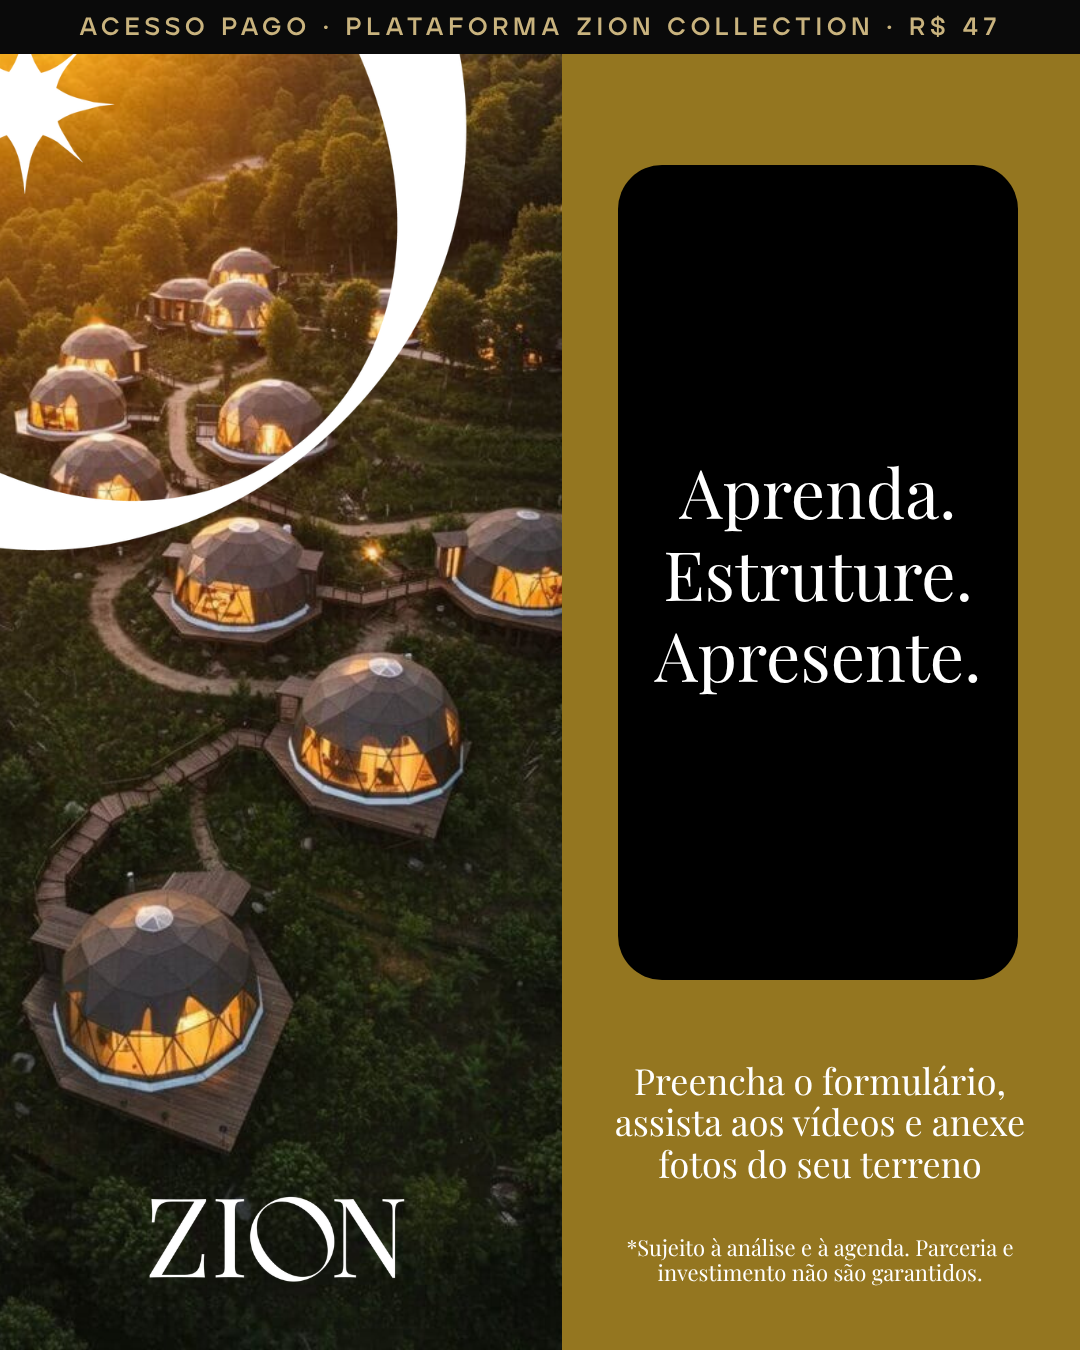
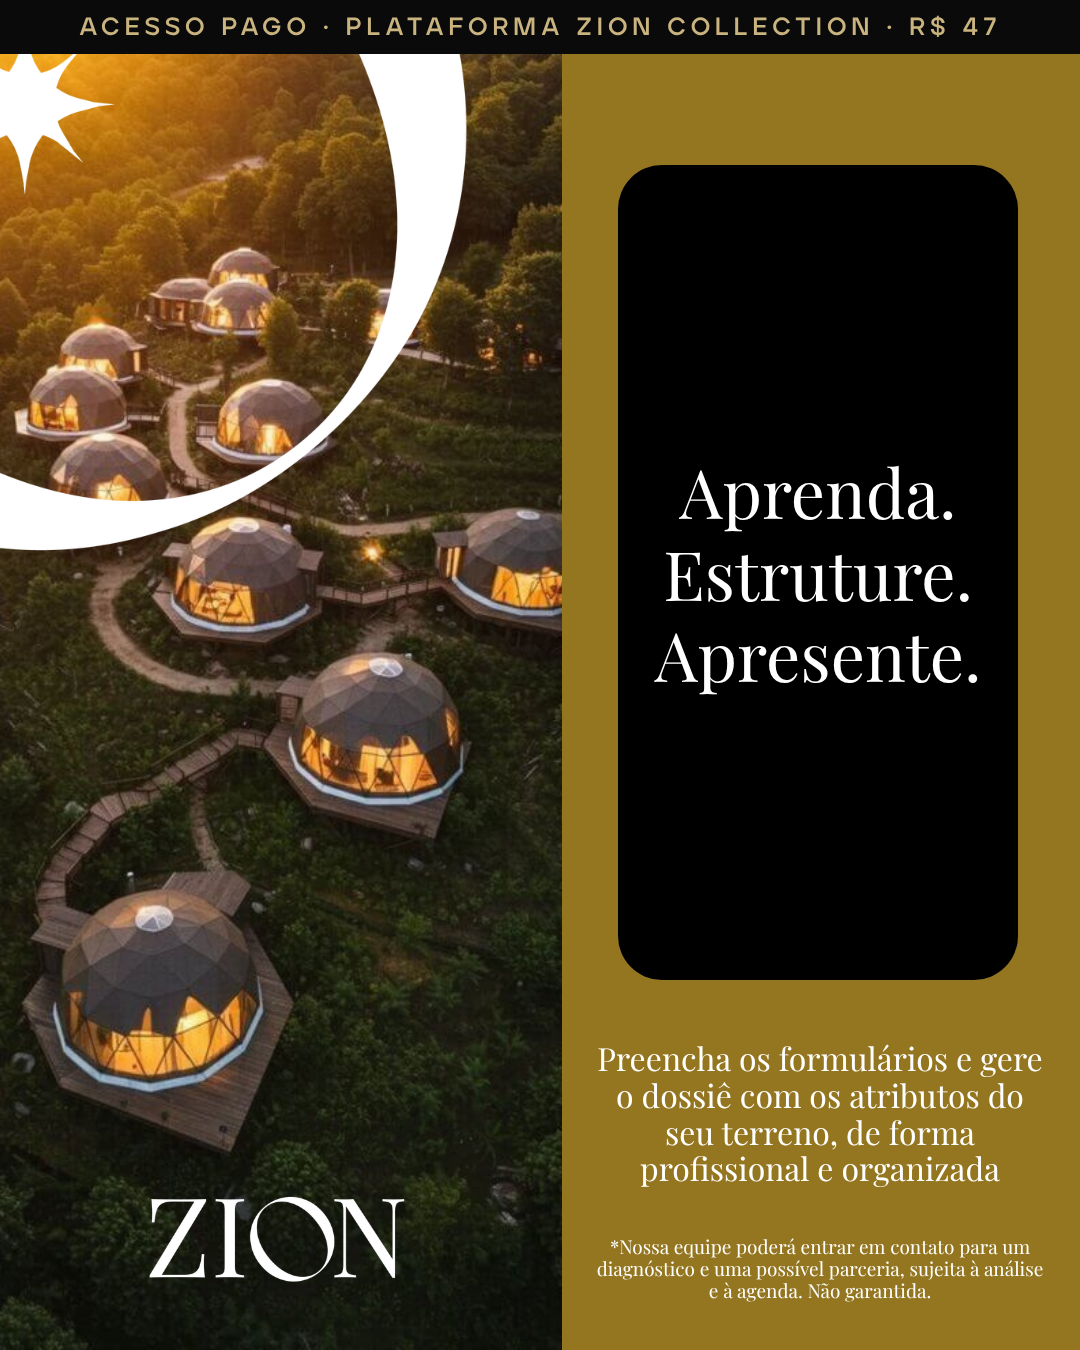
Carrossel campeão R$ 47: narrativa do dossiê e diagnóstico (cartão 6 e texto primário)
Claude-Session: https://claude.ai/code/session_01BzUk5bYdjCT6eSVqUG9zKZ

Changed region(s): [[0.55, 0.7778, 0.9472, 0.8711], [0.55, 0.9022, 0.9472, 0.9644]]

diff --git a/docs/ads/zc47-carrossel/build.js b/docs/ads/zc47-carrossel/build.js
@@ -48,8 +48,8 @@ const cards=[
 // 6 como funciona
 [CN+'6.png',`<div class="b" style="left:562px;top:0;width:518px;height:1350px;background:${Y}"></div>
 <div class="b s" style="left:618px;width:400px;top:165px;height:815px;border-radius:44px;background:#000;color:#fff;font-size:68px;display:flex;align-items:center;justify-content:center;line-height:1.2;padding:0 26px">Aprenda.<br>Estruture.<br>Apresente.</div>
-<div class="b s" style="left:590px;width:460px;top:1060px;font-size:36px;color:#fff;line-height:1.15">Preencha o formulário, assista aos vídeos e anexe fotos do seu terreno</div>
-<div class="b s" style="left:590px;width:460px;top:1235px;font-size:22px;color:#fff;line-height:1.15">*Sujeito à análise e à agenda. Parceria e investimento não são garantidos.</div>`],
+<div class="b s" style="left:590px;width:460px;top:1040px;font-size:32px;color:#fff;line-height:1.15">Preencha os formulários e gere o dossiê com os atributos do seu terreno, de forma profissional e organizada</div>
+<div class="b s" style="left:590px;width:460px;top:1236px;font-size:19px;color:#fff;line-height:1.15">*Nossa equipe poderá entrar em contato para um diagnóstico e uma possível parceria, sujeita à análise e à agenda. Não garantida.</div>`],
 // 7 conversão
 [VC+'10.png',`<div class="b" style="left:0;top:0;width:572px;height:1030px;background:${Y}"></div>
 <div class="b s" style="left:40px;width:492px;top:96px;font-size:50px;font-weight:900;color:#0b0b0b;text-transform:uppercase;line-height:1.1">Plataforma Zion Collection</div>

diff --git a/docs/ads/zc47-carrossel/COPIES.md b/docs/ads/zc47-carrossel/COPIES.md
@@ -7,13 +7,17 @@ Formato: carrossel de 7 cartões, 1080x1350 (`zc47-card-1.png` a `-7.png`), com 
 
 **Destino:** https://www.zionhotelgroup.com/inscricao · **Botão do Meta:** Saiba mais
 
-## Texto primário
+## Texto primário (versão de 27/11, a partir do texto de Bruno)
 Acesso pago à plataforma Zion Collection, R$ 47.
 
-Você tem um terreno em um destino turístico e quer desenvolver o seu projeto, mas não sabe por onde começar? Queremos te conhecer. Inscreva seu projeto na nossa plataforma, informe os atributos do seu terreno de forma organizada e nossa equipe poderá entrar em contato*. Aprenda o passo a passo, receba conteúdo e informações contínuas e tenha a possibilidade de ser parceiro Zion.
+Queremos te conhecer. A plataforma serve para você apresentar os atributos do seu terreno ou projeto de forma profissional e organizada: você preenche os formulários e gera o seu dossiê. Com ele, a nossa equipe poderá entrar em contato para um diagnóstico e uma possível parceria em investimentos na sua área*.
+
+A Zion está em plena expansão pelo Brasil e o seu terreno pode ser o próximo destino.
 
 R$ 47, pagamento único. Pix ou cartão. Reembolso em até 7 dias.
 *Contato sujeito à análise e à agenda. Parceria e investimento não são garantidos.
+
+Notas de redação: "plano de negócio" ficou de fora (a plataforma entrega o Dossiê do terreno; plano de negócio não está confirmado no que ela gera) e "potencial do seu terreno" virou "atributos do seu terreno" (potencial seria promessa). "Entrará em contato" virou "poderá entrar em contato"; "viabilizar parceria" virou "possível parceria".
 
 ## Título / descrição
 Plataforma Zion Collection · R$ 47 / Pagamento único · Pix ou cartão
